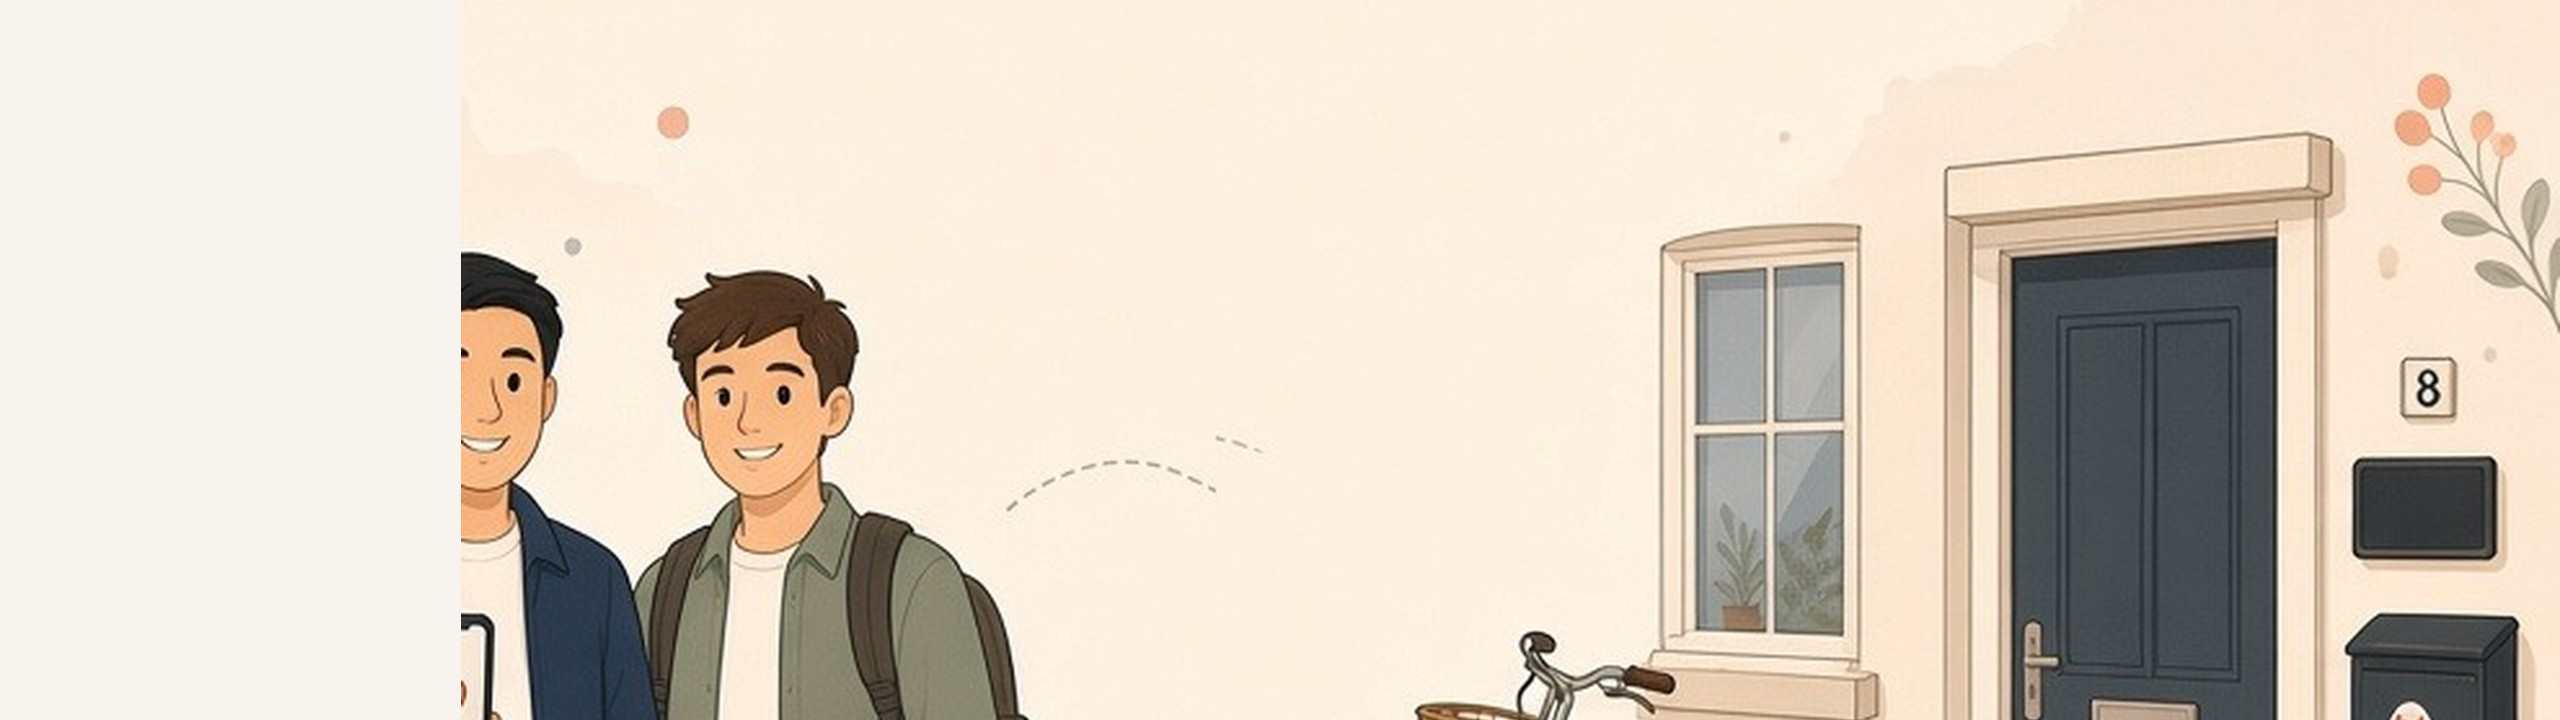
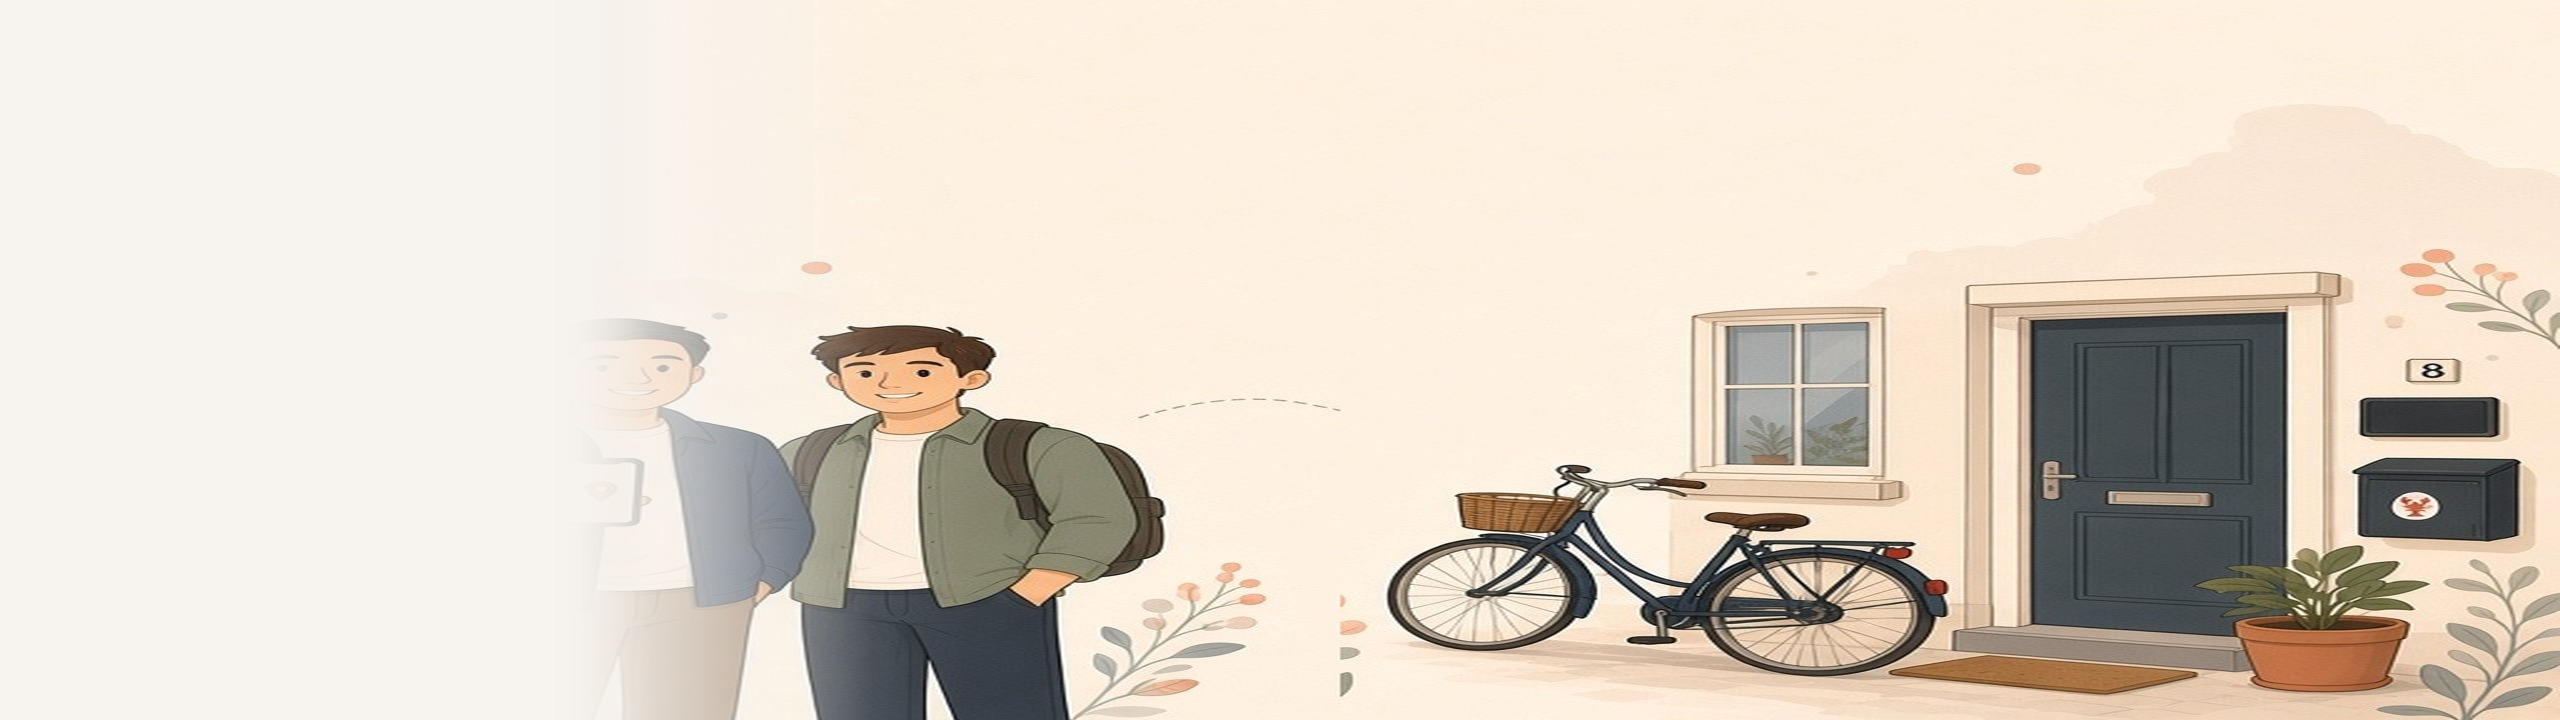
R13: preprocess hero asset for seamless cream-to-art blend.
PIL pipeline (tools/scripts/build_ref_verif_hero.py) feathers art onto
cream, blends left 38%, trims half figure, and validates bg column jumps.
Disable CSS hero mask; mobile positions at 62% for full figures. R13 PNGs.

Changed region(s): [[0.1562, 0.0917, 1.0, 1.0], [0.25, 0.1528, 0.2812, 0.1833]]

diff --git a/Jobsy.Web/wwwroot/css/features/reference-verification.css b/Jobsy.Web/wwwroot/css/features/reference-verification.css
@@ -1529,14 +1529,8 @@
 }
 
 .ref-verif-cand-hero.cand-hero--profession-band::before {
-  background: linear-gradient(
-    90deg,
-    var(--pearl) 0%,
-    var(--pearl) 48%,
-    color-mix(in srgb, var(--pearl) 94%, transparent) 52%,
-    color-mix(in srgb, var(--pearl) 35%, transparent) 56%,
-    transparent 60%
-  );
+  content: none;
+  display: none;
 }
 
 .ref-verif-cand-hero .cand-hero__copy {
@@ -1638,7 +1632,7 @@
   }
 
   .ref-verif-cand-hero.cand-hero--profession-band .cand-hero__media {
-    background-position: right center;
+    background-position: var(--ref-verif-hero-pos-mobile, 62% center);
     background-size: auto 100%;
   }
 

diff --git a/Jobsy.Tests/ReferenceVerificationScreenshotsPlaywrightTests.cs b/Jobsy.Tests/ReferenceVerificationScreenshotsPlaywrightTests.cs
@@ -21,6 +21,7 @@ public sealed class ReferenceVerificationScreenshotsPlaywrightTests
     private const string EnvRunR10 = "JOBSY_E2E_REF_VERIF_SCREENSHOTS_R10";
     private const string EnvRunR11 = "JOBSY_E2E_REF_VERIF_SCREENSHOTS_R11";
     private const string EnvRunR12 = "JOBSY_E2E_REF_VERIF_SCREENSHOTS_R12";
+    private const string EnvRunR13 = "JOBSY_E2E_REF_VERIF_SCREENSHOTS_R13";
     private const string Password = "Jobsy123!";
     private const string Email = ReferenceVerificationDemoIds.Email;
 
@@ -49,6 +50,8 @@ public sealed class ReferenceVerificationScreenshotsPlaywrightTests
     private static string OutputDirR11 => "/opt/cursor/artifacts/references-r11";
 
     private static string OutputDirR12 => "/opt/cursor/artifacts/references-r12";
+
+    private static string OutputDirR13 => "/opt/cursor/artifacts/references-r13";
 
     private static bool ShouldRun =>
         string.Equals(Environment.GetEnvironmentVariable(EnvRun), "1", StringComparison.Ordinal);
@@ -79,6 +82,9 @@ public sealed class ReferenceVerificationScreenshotsPlaywrightTests
 
     private static bool ShouldRunR12 =>
         string.Equals(Environment.GetEnvironmentVariable(EnvRunR12), "1", StringComparison.Ordinal);
+
+    private static bool ShouldRunR13 =>
+        string.Equals(Environment.GetEnvironmentVariable(EnvRunR13), "1", StringComparison.Ordinal);
 
     [Fact]
     public async Task Capture_reference_verification_screenshots()
@@ -798,11 +804,83 @@ public sealed class ReferenceVerificationScreenshotsPlaywrightTests
         Assert.Equal(8, pngs.Length);
     }
 
+    [Fact]
+    public async Task Capture_reference_verification_screenshots_r13()
+    {
+        if (!ShouldRunR13)
+        {
+            return;
+        }
+
+        var baseUrl = await KbE2e.TryReadyBaseUrlAsync();
+        if (baseUrl is null)
+        {
+            Assert.Fail("JOBSY_E2E_BASE_URL unreachable — start API :5200 and Web :5201 with seeded DB.");
+        }
+
+        DeleteLegacyReferenceArtifactDirs(includeR12: true);
+
+        Directory.CreateDirectory(OutputDirR13);
+        foreach (var stale in Directory.GetFiles(OutputDirR13))
+        {
+            File.Delete(stale);
+        }
+
+        Microsoft.Playwright.Program.Main(["install", "chromium"]);
+        using var playwright = await Playwright.CreateAsync();
+        await using var browser = await playwright.Chromium.LaunchAsync(new() { Headless = true });
+
+        foreach (var (width, height, tag) in Viewports)
+        {
+            await using var candidateContext = await browser.NewContextAsync(new()
+            {
+                ViewportSize = new() { Width = width, Height = height },
+                IgnoreHTTPSErrors = true
+            });
+            await PlaywrightCookieConsent.AcceptAsync(candidateContext);
+            var candidatePage = await candidateContext.NewPageAsync();
+            await LoginAsync(candidatePage, baseUrl, Email);
+
+            await candidatePage.GotoAsync($"{baseUrl}/candidate/paspoort", new() { WaitUntil = WaitUntilState.NetworkIdle });
+            await candidatePage.WaitForSelectorAsync("[data-testid='passport-employer-preview']", new() { Timeout = 15_000 });
+            await candidatePage.WaitForSelectorAsync(".ref-verif-employer-preview__chip", new() { Timeout = 10_000 });
+            await candidatePage.Locator("[data-testid='passport-employer-preview']").ScrollIntoViewIfNeededAsync();
+            await Task.Delay(350);
+            await PlaywrightScreenshotSanitizer.CaptureFullPageAsync(
+                candidatePage,
+                Path.Combine(OutputDirR13, $"08-paspoort-endorsed-{tag}.png"));
+
+            await CaptureRequestFormAndConfirmAsync(candidatePage, baseUrl, tag, OutputDirR13, useRealisticDemoName: true);
+            await candidateContext.CloseAsync();
+
+            await using var publicContext = await browser.NewContextAsync(new()
+            {
+                ViewportSize = new() { Width = width, Height = height },
+                IgnoreHTTPSErrors = true
+            });
+            await PlaywrightCookieConsent.AcceptAsync(publicContext);
+            var publicPage = await publicContext.NewPageAsync();
+            var open = ReferenceVerificationDemoIds.OpenReferentToken;
+            await publicPage.GotoAsync($"{baseUrl}/werk-referentie/{open}", new() { WaitUntil = WaitUntilState.NetworkIdle });
+            await publicPage.WaitForSelectorAsync("[data-testid='ref-verif-public-open']", new() { Timeout = 20_000 });
+            await publicPage.WaitForSelectorAsync(".cand-hero.ref-verif-cand-hero", new() { Timeout = 10_000 });
+            await Task.Delay(350);
+            await PlaywrightScreenshotSanitizer.CaptureFullPageAsync(
+                publicPage,
+                Path.Combine(OutputDirR13, $"04-referent-public-{tag}.png"));
+            await publicContext.CloseAsync();
+        }
+
+        var pngs = Directory.GetFiles(OutputDirR13, "*.png");
+        Assert.Equal(8, pngs.Length);
+    }
+
     private static void DeleteLegacyReferenceArtifactDirs(
         bool includeR8 = false,
         bool includeR9 = false,
         bool includeR10 = false,
-        bool includeR11 = false)
+        bool includeR11 = false,
+        bool includeR12 = false)
     {
         var dirs = new List<string>
         {
@@ -828,6 +906,11 @@ public sealed class ReferenceVerificationScreenshotsPlaywrightTests
         if (includeR11)
         {
             dirs.Add(OutputDirR11);
+        }
+
+        if (includeR12)
+        {
+            dirs.Add(OutputDirR12);
         }
 
         foreach (var dir in dirs)

diff --git a/tools/scripts/build_ref_verif_hero.py b/tools/scripts/build_ref_verif_hero.py
@@ -1,0 +1,137 @@
+#!/usr/bin/env python3
+"""Build ref-verif-hero.jpg: wide cream left, soft blend, full figures on the right."""
+
+from __future__ import annotations
+
+import statistics
+from pathlib import Path
+
+from PIL import Image
+
+ROOT = Path(__file__).resolve().parents[2]
+SPOTS = ROOT / "Jobsy.Web/wwwroot/images/candidate-illustrated/spots"
+OUT = SPOTS / "ref-verif-hero.jpg"
+
+CREAM = (247, 244, 240)
+PEACH = (231, 205, 182)
+CANVAS_W, CANVAS_H = 2560, 720
+BLEND_FRAC = 0.38
+ART_START_FRAC = 0.20
+ART_FEATHER_PX = 360
+DECOR_STRIP_PX = 140
+JUMP_CHECK_FRAC = 0.27
+MAX_COLUMN_JUMP = 6.0
+
+
+def _column_means(im: Image.Image) -> list[tuple[float, float, float]]:
+    w, h = im.size
+    px = im.load()
+    cols: list[tuple[float, float, float]] = []
+    for x in range(w):
+        rs = [px[x, y][0] for y in range(h)]
+        gs = [px[x, y][1] for y in range(h)]
+        bs = [px[x, y][2] for y in range(h)]
+        cols.append((statistics.mean(rs), statistics.mean(gs), statistics.mean(bs)))
+    return cols
+
+
+def _max_column_jump(cols: list[tuple[float, float, float]], until_x: int) -> float:
+    best = 0.0
+    until_x = min(until_x, len(cols))
+    for i in range(1, until_x):
+        a = cols[i - 1]
+        b = cols[i]
+        jump = abs(a[0] - b[0]) + abs(a[1] - b[1]) + abs(a[2] - b[2])
+        best = max(best, jump)
+    return best
+
+
+def _decor_strip(width: int, height: int) -> Image.Image:
+    strip = Image.new("RGB", (width, height))
+    px = strip.load()
+    for x in range(width):
+        t = (x / max(1, width - 1)) ** 0.95
+        for y in range(height):
+            r = int(CREAM[0] + (PEACH[0] - CREAM[0]) * t)
+            g = int(CREAM[1] + (PEACH[1] - CREAM[1]) * t)
+            b = int(CREAM[2] + (PEACH[2] - CREAM[2]) * t)
+            px[x, y] = (r, g, b)
+    return strip
+
+
+def _feather_art_alpha(art: Image.Image, feather: int) -> Image.Image:
+    rgba = art.convert("RGBA")
+    w, h = rgba.size
+    feather = min(feather, w)
+    px = rgba.load()
+    for x in range(feather):
+        t = (x / max(1, feather - 1)) ** 1.15
+        alpha = int(255 * t)
+        for y in range(h):
+            r, g, b, _ = px[x, y]
+            px[x, y] = (r, g, b, alpha)
+    return rgba
+
+
+def build() -> None:
+    links = Image.open(SPOTS / "login-links.jpg").convert("RGB")
+    rechts = Image.open(SPOTS / "login-rechts.jpg").convert("RGB")
+    trim_links = int(links.width * 0.40)
+    links = links.crop((trim_links, 0, links.width, links.height))
+    trim_rechts = int(rechts.width * 0.06)
+    rechts = rechts.crop((trim_rechts, 0, rechts.width, rechts.height))
+
+    combo = Image.new("RGB", (links.width + rechts.width, links.height))
+    combo.paste(links, (0, 0))
+    combo.paste(rechts, (links.width, 0))
+
+    paste_x = int(CANVAS_W * ART_START_FRAC)
+    target_art_w = CANVAS_W - paste_x
+    overlap = 90
+    core = combo.resize((target_art_w - DECOR_STRIP_PX + overlap, CANVAS_H), Image.Resampling.LANCZOS)
+    decor = _decor_strip(DECOR_STRIP_PX, CANVAS_H)
+    art = Image.new("RGB", (target_art_w, CANVAS_H))
+    art.paste(decor, (0, 0))
+    core_rgba = core.convert("RGBA")
+    cpx = core_rgba.load()
+    for x in range(min(overlap, core.width)):
+        t = (x / max(1, overlap - 1)) ** 1.25
+        alpha = int(255 * t)
+        for y in range(CANVAS_H):
+            r, g, b, _ = cpx[x, y]
+            cpx[x, y] = (r, g, b, alpha)
+    art.paste(core_rgba, (DECOR_STRIP_PX - overlap, 0), core_rgba)
+
+    art_rgba = _feather_art_alpha(art, ART_FEATHER_PX)
+    canvas = Image.new("RGB", (CANVAS_W, CANVAS_H), CREAM)
+    canvas.paste(art_rgba, (paste_x, 0), art_rgba)
+
+    blend_w = max(2, int(CANVAS_W * BLEND_FRAC))
+    px = canvas.load()
+    for x in range(blend_w):
+        keep = (x / (blend_w - 1)) ** 1.02
+        for y in range(CANVAS_H):
+            r, g, b = px[x, y]
+            px[x, y] = (
+                int(CREAM[0] + (r - CREAM[0]) * keep),
+                int(CREAM[1] + (g - CREAM[1]) * keep),
+                int(CREAM[2] + (b - CREAM[2]) * keep),
+            )
+
+    cols = _column_means(canvas)
+    check_until = int(CANVAS_W * JUMP_CHECK_FRAC)
+    jump = _max_column_jump(cols, check_until)
+    if jump > MAX_COLUMN_JUMP:
+        raise SystemExit(
+            f"Background column jump {jump:.2f} exceeds {MAX_COLUMN_JUMP} in 0–{check_until}px."
+        )
+
+    OUT.parent.mkdir(parents=True, exist_ok=True)
+    canvas.save(OUT, quality=92, optimize=True)
+    print(
+        f"Wrote {OUT} ({CANVAS_W}x{CANVAS_H}), bg jump {jump:.2f} (0–{check_until}px), art@{paste_x}"
+    )
+
+
+if __name__ == "__main__":
+    build()

diff --git a/Jobsy.Tests/ReferenceVerificationHeroAssetTests.cs b/Jobsy.Tests/ReferenceVerificationHeroAssetTests.cs
@@ -1,0 +1,35 @@
+using System.Diagnostics;
+using System.Globalization;
+
+namespace Jobsy.Tests;
+
+public sealed class ReferenceVerificationHeroAssetTests
+{
+    [Fact]
+    public void Ref_verif_hero_background_columns_stay_smooth()
+    {
+        var repoRoot = Path.GetFullPath(Path.Combine(AppContext.BaseDirectory, "..", "..", "..", ".."));
+        var script = Path.Combine(repoRoot, "tools", "scripts", "build_ref_verif_hero.py");
+        Assert.True(File.Exists(script), $"Hero build script missing at {script}.");
+
+        using var process = Process.Start(new ProcessStartInfo
+        {
+            FileName = "python3",
+            ArgumentList = { script },
+            RedirectStandardOutput = true,
+            RedirectStandardError = true,
+            WorkingDirectory = repoRoot,
+        });
+        Assert.NotNull(process);
+        var stdout = process.StandardOutput.ReadToEnd();
+        var stderr = process.StandardError.ReadToEnd();
+        process.WaitForExit(30_000);
+        Assert.True(process.ExitCode == 0, stderr + stdout);
+
+        Assert.Contains("bg jump", stdout, StringComparison.Ordinal);
+        var jump = double.Parse(
+            stdout.Split("bg jump")[1].Split('(')[0].Trim(),
+            CultureInfo.InvariantCulture);
+        Assert.True(jump <= 6.0, $"Hero background jump {jump} exceeds 6.");
+    }
+}

diff --git a/Jobsy.Web/Hosting/PageAssetCatalog.cs b/Jobsy.Web/Hosting/PageAssetCatalog.cs
@@ -53,7 +53,7 @@ public static class PageAssetCatalog
         "css/features/kandidaatinzichten.css?v=20261004-10",
         "css/features/testresultaten.css?v=20261004-10",
         "css/features/mijn-paspoort.css?v=20261018-06",
-        "css/features/reference-verification.css?v=20261018-r12d",
+        "css/features/reference-verification.css?v=20261018-r13b",
         "css/features/ontdekkingsreis.css?v=20261015-21",
         "css/features/tests.css?v=20261016-05",
         "css/features/carriere.css?v=20261011-01",
@@ -224,7 +224,7 @@ public static class PageAssetCatalog
 
         if (path.StartsWith("/werk-referentie/", StringComparison.OrdinalIgnoreCase))
         {
-            return ["css/features/reference-verification.css?v=20261018-r12d"];
+            return ["css/features/reference-verification.css?v=20261018-r13b"];
         }
 
         return [];

diff --git a/Jobsy.Web/Media/CandidateIllustratedImages.cs b/Jobsy.Web/Media/CandidateIllustratedImages.cs
@@ -3,7 +3,7 @@ namespace Jobsy.Web.Media;
 /// <summary>Versioned URLs for candidate-facing illustrated pages (login, start, kompas, banenkaart).</summary>
 public static class CandidateIllustratedImages
 {
-    public const string Version = "20261018-r12d";
+    public const string Version = "20261018-r13b";
     private const string Base = $"/images/candidate-illustrated";
 
     public static string Url(string file) => $"{Base}/{file}?v={Version}";
@@ -29,4 +29,7 @@ public static class CandidateIllustratedImages
 
     /// <summary>Profession-band hero (Carrière #732): art rechts, crème links in asset.</summary>
     public const string RefVerifHeroArtPosition = "right center";
+
+    /// <summary>Mobile band: keep both men fully in frame on the wide asset.</summary>
+    public const string RefVerifHeroMobilePosition = "62% center";
 }
